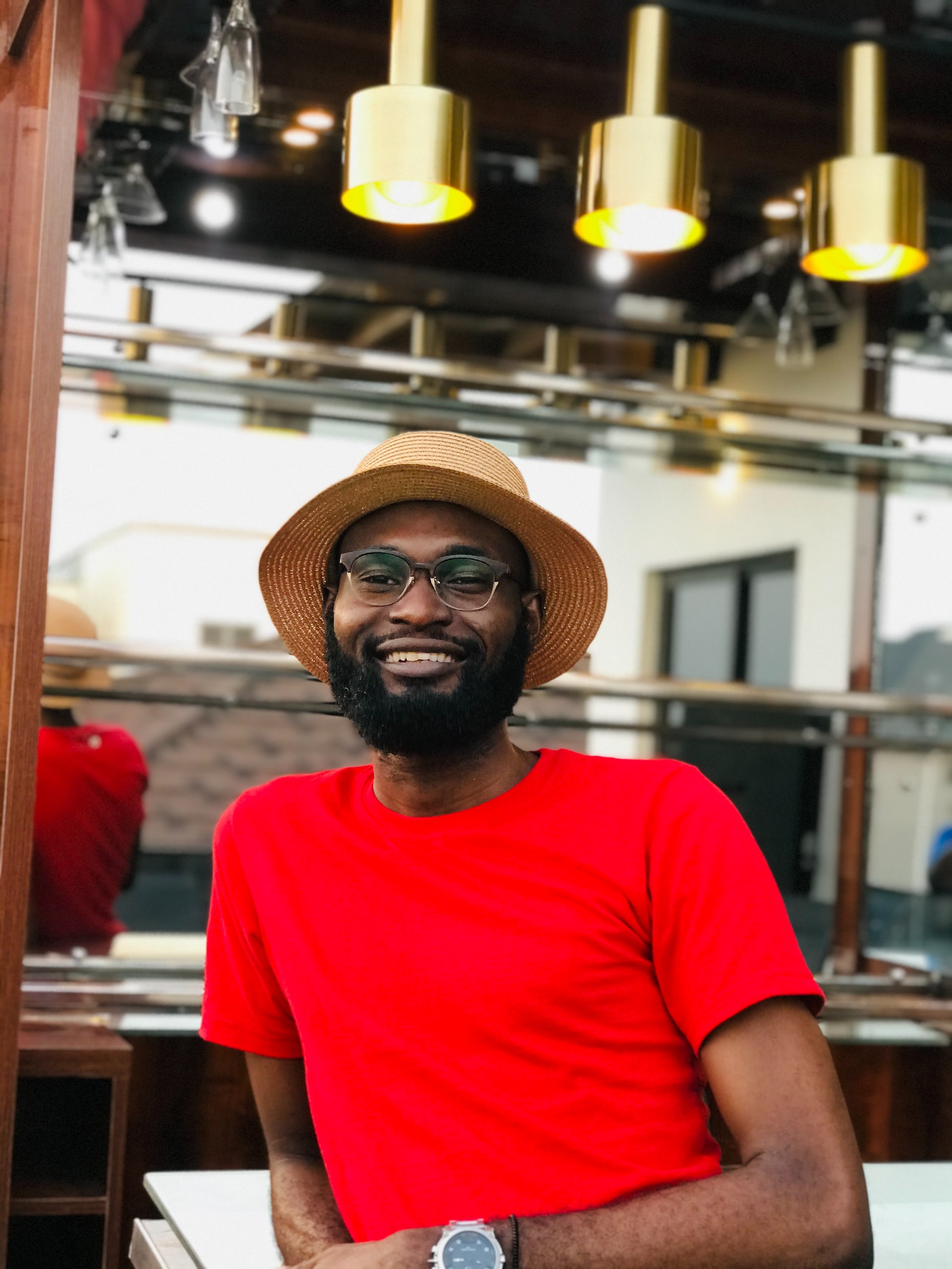
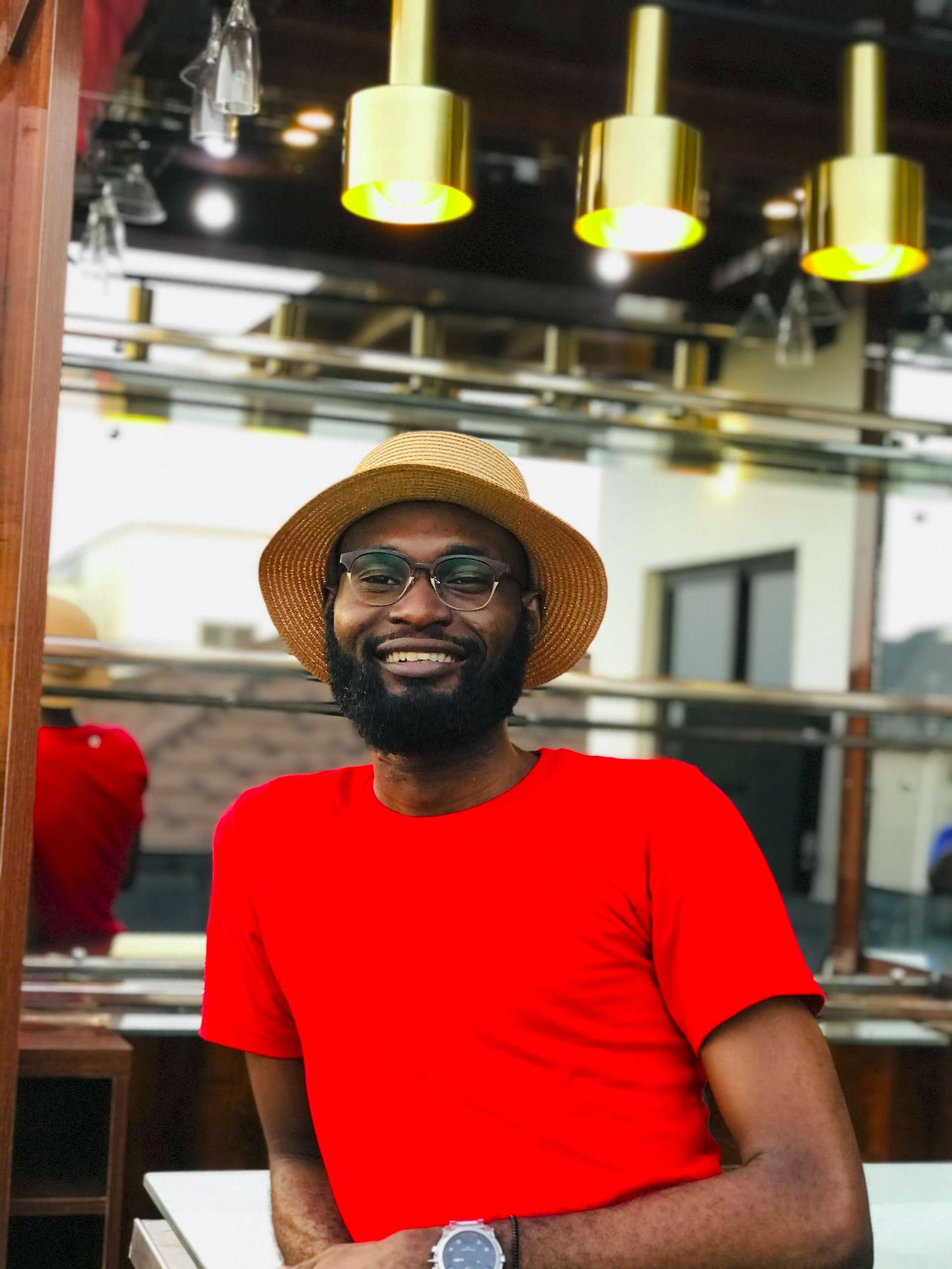
compressed image sizes

diff --git a/src/components/HomePage.jsx b/src/components/HomePage.jsx
@@ -43,16 +43,22 @@ export const RightContainer = styled.div`
     font-size: 50px;
   }
 `;
+
+const Container = styled.div`
+  width: 100vw !important;
+`;
 const HomePage = () => {
   return (
     <Wrapper>
-      <LeftContainer
-        className="redefine-me"
-        overlayValue={'rgba(0, 0, 0, 0.45)'}
-        bgImage={'bg-home.jpg'}
-        content={<HomeSearch />}
-        position="center top"
-      />
+      <Container>
+        <LeftContainer
+          className="redefine-me"
+          overlayValue={'rgba(0, 0, 0, 0.45)'}
+          bgImage={'bg-home.jpg'}
+          content={<HomeSearch />}
+          position="center top"
+        />
+      </Container>
     </Wrapper>
   );
 };

diff --git a/src/components/CreateCrib.jsx b/src/components/CreateCrib.jsx
@@ -72,6 +72,7 @@ const AmenitiesForm = styled.div`
     padding: 5px 10px;
     border-radius: 20px;
     width: auto;
+    text-align: center;
   }
 `;
 const Row = styled.div`
@@ -83,6 +84,7 @@ const Row = styled.div`
     position: absolute;
     right: 15px;
     top: 27%;
+    text-align: center;
     font-family: karla;
     font-weight: 500;
     color: rgba(70, 70, 70, 0.89);

diff --git a/src/components/Error404.jsx b/src/components/Error404.jsx
@@ -13,6 +13,7 @@ const Wrapper = styled.div`
   h3 {
     font-size: 60px;
     margin-bottom: 20px;
+    line-height: 1.2;
   }
 
   @media (max-width: 600px) {
@@ -20,6 +21,11 @@ const Wrapper = styled.div`
 
     h3 {
       font-size: 30px;
+    }
+  }
+  @media (max-width: 970px) {
+    h3 {
+      font-size: 45px;
     }
   }
 

diff --git a/src/components/HomeSearch.jsx b/src/components/HomeSearch.jsx
@@ -1,8 +1,5 @@
 import { useState } from 'react';
-import {
-  createSearchParams,
-  useNavigate,
-} from 'react-router-dom';
+import { createSearchParams, useNavigate } from 'react-router-dom';
 import styled from 'styled-components';
 import InputElement from './InputElement';
 

diff --git a/src/components/UserPage.jsx b/src/components/UserPage.jsx
@@ -34,6 +34,14 @@ const ProfileCard = styled.div`
     object-fit: cover;
     border-radius: 50%;
   }
+
+  @media (max-width: 600px) {
+    h3 {
+      font-size: 30px;
+    }
+
+    font-size: 16px;
+  }
 `;
 
 const UserPage = ({ userData }) => {

diff --git a/src/components/SingleCrib.jsx b/src/components/SingleCrib.jsx
@@ -60,7 +60,6 @@ const AgentCard = styled.div`
     justify-content: center;
 
     .details-inner {
-      border: 1px solid red;
       justify-content: center;
       align-items: center;
     }

diff --git a/src/components/UserForm.jsx b/src/components/UserForm.jsx
@@ -48,6 +48,7 @@ const Row = styled.div`
     position: absolute;
     right: 20px;
     top: 13px;
+    text-align: center;
     font-family: karla;
     font-weight: 500;
     color: var(--grey);
